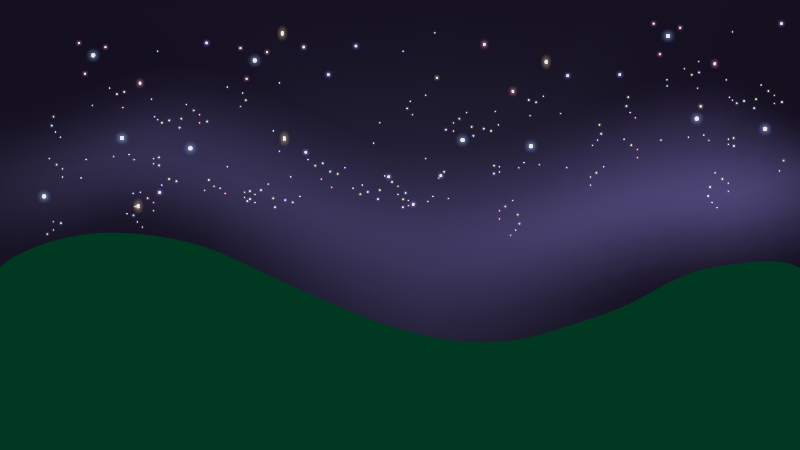
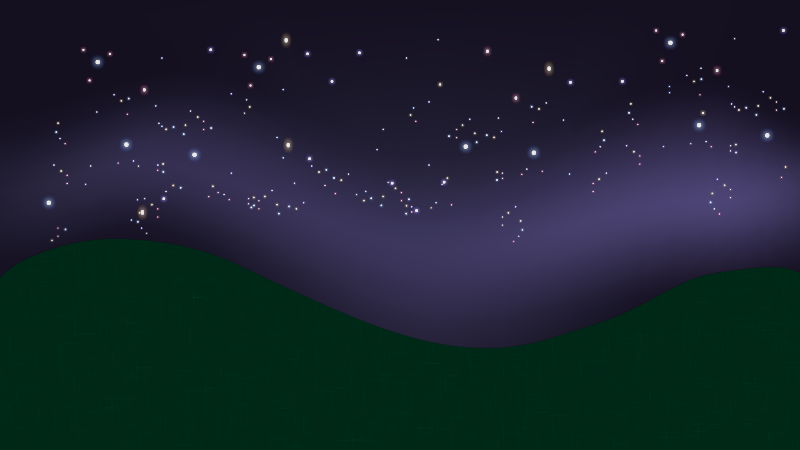
Zombie movement
Added more sophisticated zombie head path movement
Updated the background image with more zing

diff --git a/src/Zombie.js b/src/Zombie.js
@@ -33,22 +33,41 @@ var Zombie = cc.Sprite.extend({
         this.initWithFile(s_ZombieHead);
         this.setScale(0.10);
         this.setAnchorPoint(cc.p(0.5, 0.5));
-        this.setPosition(cc.p(this._posX, size.height/3));
+
+
+        var yfactor = size.height / 2;
+        var xfactor = size.width / 2;
+
+        var verts = [];
+        verts[0] = {x:-500.4, y:500.9 ,delay: 0.1 };
+        verts[1] = {x:-500,   y:21.9 ,delay: 0.5 };
+        verts[2] = {x:-395.4, y:21.9 ,delay: 0.5 };
+        verts[3] = {x:-253.3, y:78.1 ,delay: 1 };
+        verts[4] = {x:43.6,   y:-48.6,delay: 1 };
+        verts[5] = {x:284.0,  y:41.1 ,delay: 1 };
+        verts[6] = {x:393.4,  y:38.2 ,delay: 1 };
+        verts[7] = {x:410.4,  y:38.2 ,delay: 0.2 };
+        verts[8] = {x:500.4,  y:500.9 ,delay: 0 };
+
+        var actions= [];
+        var actIdx = 0;
+        for (var i=0; i < verts.length; i++) {
+            actions[actIdx++] = cc.MoveTo.create(verts[i].delay, cc.p(xfactor + verts[i].x, yfactor + verts[i].y));
+        }
+
+        // initial position
+        this.setPosition(cc.p(xfactor + verts[0].x - 20, yfactor + verts[0].y - 10));
+
+        var sequence = cc.Sequence.create(actions);
+        this.runAction(cc.RepeatForever.create(sequence));
 
         this.schedule(function()
         {
             this.setRotation(this._rotationAmount+=5);
             if(this._rotationAmount > 360)
                 this._rotationAmount = 0;
-
-            if (this._posX > 60) {
-                this._gameLayer.setCanSpawn(true);
-            }
-
-            this.setPosition(cc.p(this._posX++, this.getPositionY()));
-            if (this._posX > size.width) {
-                this.removeFromParentAndCleanup();
-            }
         }, 0.01, cc.REPEAT_FOREVER);
+        this.scheduleUpdate();
     }
+
 });

diff --git a/src/GameLayer.js b/src/GameLayer.js
@@ -65,7 +65,7 @@ var GameLayer = cc.Layer.extend({
         // Enable input
         var t = cc.config.deviceType;
         if( t == 'browser' )  {
-            //this.setTouchEnabled(true);
+            this.setTouchEnabled(true);
             this.setKeyboardEnabled(true);
         }
 //        else if( t == 'desktop' ) {
@@ -121,7 +121,29 @@ var GameLayer = cc.Layer.extend({
 
     onKeyUp:function (e) {
         ZH.KEYS[e] = false;
+    },
+    onTouchesBegan:function(touches, event){
+        this._isTouch = true;
+    },
+    onTouchesMoved:function (touches, event) {
+        if(this._isTouch){
+            this.processEvent(touches[0]);
+        }
+    },
+    onTouchesEnded:function(touches, event){
+        this._isTouch = false;
+    },
+    onMouseDragged:function( event ) {
+        if(this._isTouch){
+            this.processEvent( event );
+        }
+    },
+    processEvent:function( event ) {
+
     }
+
+
+
 });
 
 var MyScene = cc.Scene.extend({
